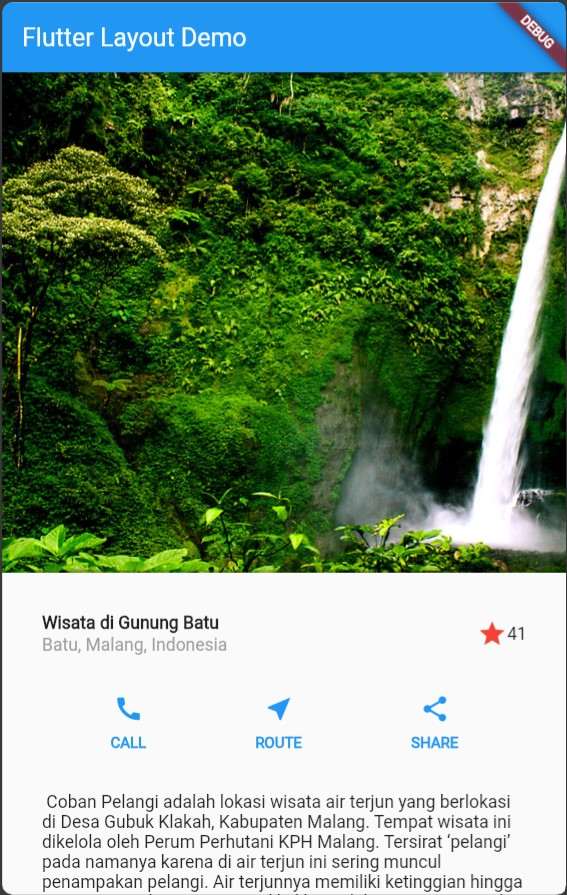
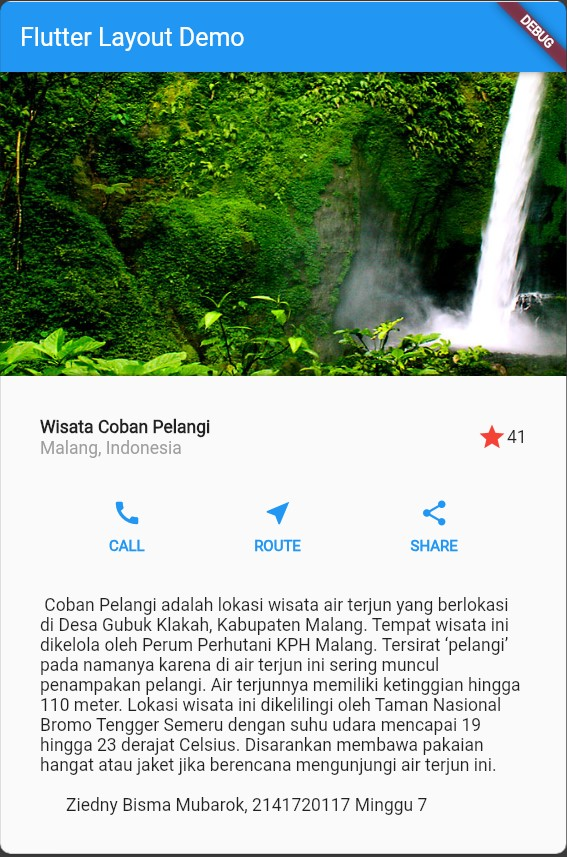
week 07

diff --git a/week-07/src/layout_dan_navigasi/lib/main.dart b/week-07/src/layout_dan_navigasi/lib/main.dart
@@ -57,14 +57,14 @@ class MyApp extends StatelessWidget {
               Container(
                 padding: const EdgeInsets.only(bottom: 1.0),
                 child: const Text(
-                  'Wisata di Gunung Batu',
+                  'Wisata Coban Pelangi',
                   style: TextStyle(
                     fontWeight: FontWeight.bold,
                   ),
                 ),
               ),
               const Text(
-                'Batu, Malang, Indonesia',
+                'Malang, Indonesia',
                 style: TextStyle(color: Colors.grey),
               )
             ],
